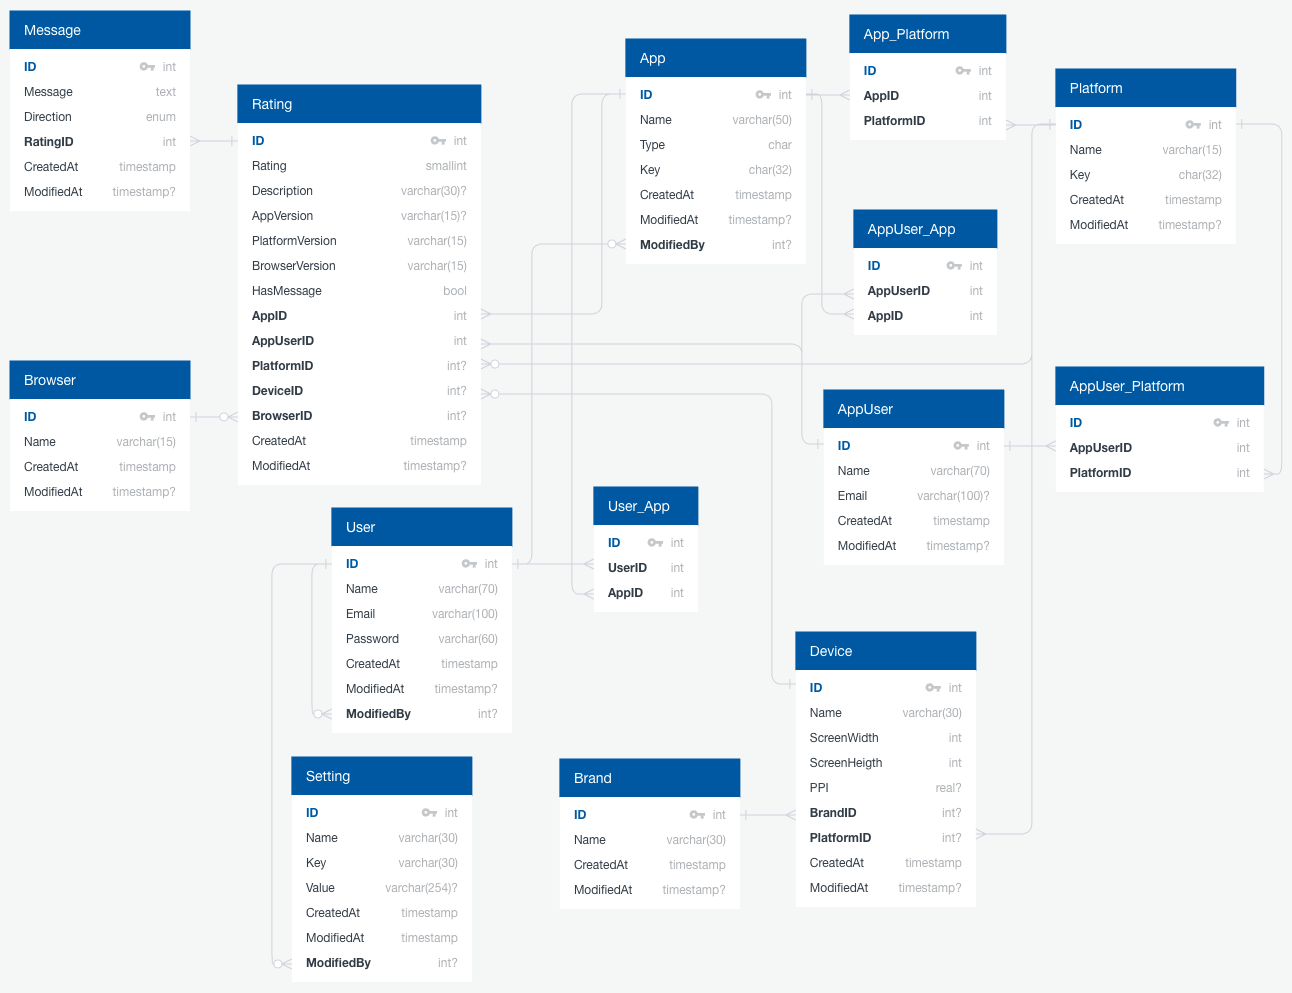
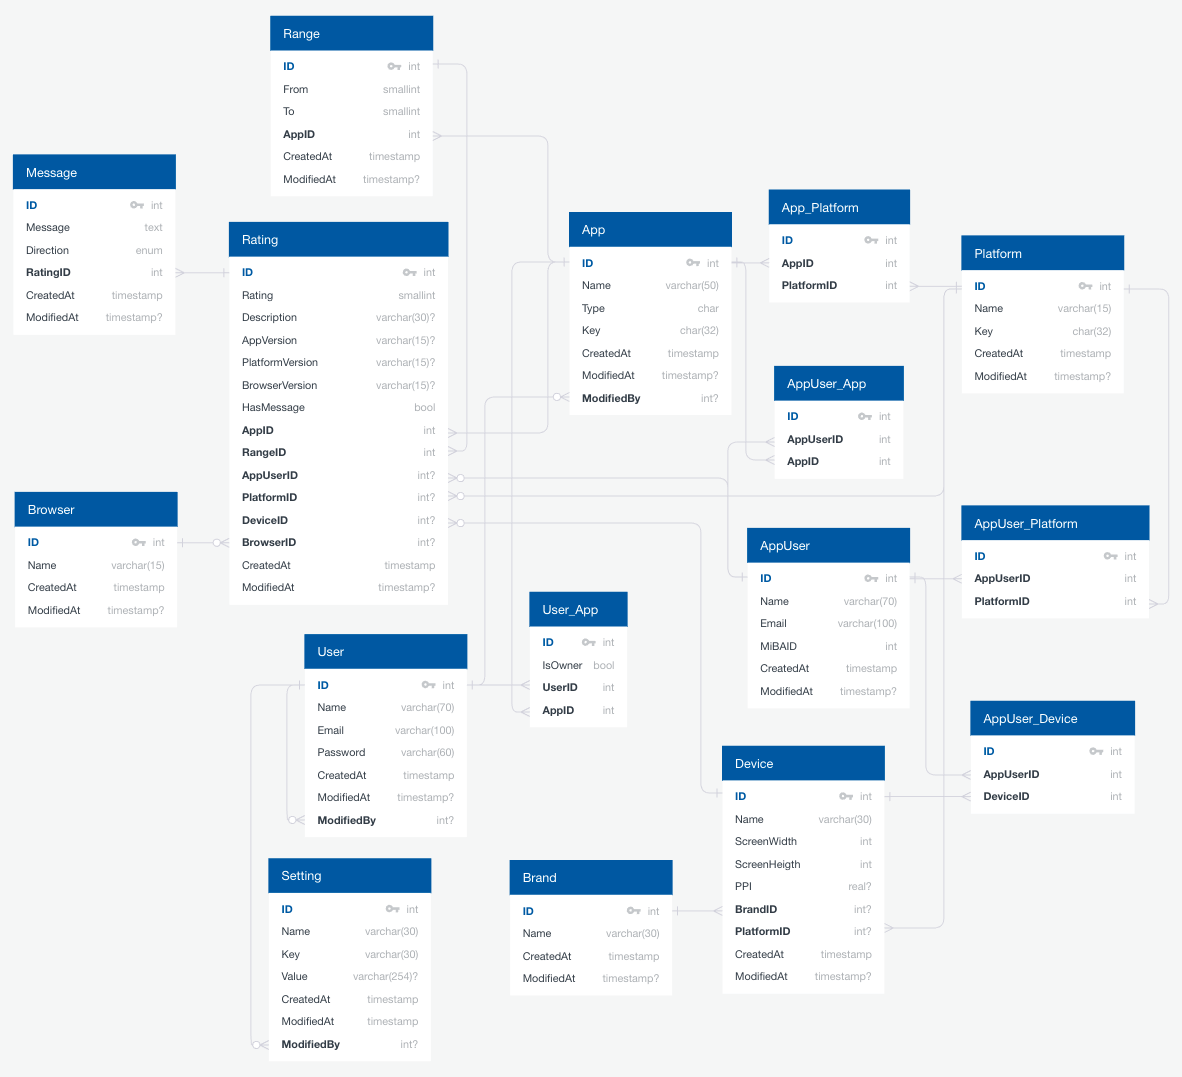
Updated docs

diff --git a/docs/estructura/datos.md b/docs/estructura/datos.md
@@ -31,6 +31,7 @@ El usuario del backend.
 
 - **Many-to-many** con App, a través de la tabla `AppUser_App`
 - **Many-to-many** con Platform, a través de la tabla `AppUser_Platform`
+- **Many-to-many** con Device, a través de la tabla `AppUser_Device`
 
 El usuario de las apps que envía calificaciones y comentarios.
 
@@ -38,7 +39,8 @@ El usuario de las apps que envía calificaciones y comentarios.
 |----------------|----------------------|:-----:|:-----:|:-----:|:-----:|
 |id              |int (PK)              |       |       |       |       |
 |name            |varchar(70)           |       |       |       |       |
-|email           |varchar(100)          |       |X      |       |X      |
+|email           |varchar(100)          |       |       |       |X      |
+|miba_id         |int                   |       |       |X      |X      |
 |created_at      |timestamp             |       |       |       |       |
 |modified_at     |timestamp             |       |X      |       |       |
 
@@ -80,15 +82,37 @@ La plataforma donde corren las apps y de donde provienen las calificaciones y co
 |created_at      |timestamp             |       |       |       |       |
 |modified_at     |timestamp             |       |X      |       |       |
 
-### User_App
+### Device
 
-Tabla intermedia para la relación many-to-many entre User y App.
+En el caso de las aplicaciones móviles, el dispositivo desde donde se enviaron las calificaciones y comentarios.
+
+#### Relaciones
+
+- **One-to-many** con Brand, a través de `brand_id`
+- **Many-to-many** con AppUser, a través de la tabla `AppUser_Device`
 
 |Campos          |Tipo                  | FK?   | Null? |Unique?|Index? |
 |----------------|----------------------|:-----:|:-----:|:-----:|:-----:|
 |id              |int (PK)              |       |       |       |       |
-|user_id         |int                   |X      |       |       |X      |
-|app_id          |int                   |X      |       |       |X      |
+|name            |varchar(30)           |       |       |X      |X      |
+|screen_width    |int                   |       |       |       |       |
+|screen_heigth   |int                   |       |       |       |       |
+|ppi             |real                  |       |X      |       |       |
+|brand_id        |int                   |X      |X      |       |X      |
+|platform_id     |int                   |X      |X      |       |X      |
+|created_at      |timestamp             |       |       |       |       |
+|modified_at     |timestamp             |       |X      |       |       |
+
+### User_App
+
+Tabla intermedia para la relación many-to-many entre User y App.
+
+|Campos          |Tipo                  |Default| FK?   | Null? |Unique?|Index? |
+|----------------|----------------------|-------|:-----:|:-----:|:-----:|:-----:|
+|id              |int (PK)              |       |       |       |       |       |
+|is_owner        |bool                  |false  |       |       |       |       |
+|user_id         |int                   |       |X      |       |       |X      |
+|app_id          |int                   |       |X      |       |       |X      |
 
 ### App_Platform
 
@@ -120,25 +144,15 @@ Tabla intermedia para la relación many-to-many entre AppUser y Platform.
 |appuser_id      |int                   |X      |       |       |X      |
 |platform_id     |int                   |X      |       |       |X      |
 
-### Device
+### AppUser_Device
 
-En el caso de las aplicaciones móviles, el dispositivo desde donde se enviaron las calificaciones y comentarios.
-
-#### Relaciones
-
-- **One-to-many** con Brand, a través de `brand_id`
+Tabla intermedia para la relación many-to-many entre AppUser y Device.
 
 |Campos          |Tipo                  | FK?   | Null? |Unique?|Index? |
 |----------------|----------------------|:-----:|:-----:|:-----:|:-----:|
 |id              |int (PK)              |       |       |       |       |
-|name            |varchar(30)           |       |       |X      |X      |
-|screen_width    |int                   |       |       |       |       |
-|screen_heigth   |int                   |       |       |       |       |
-|ppi             |real                  |       |X      |       |       |
-|brand_id        |int                   |X      |X      |       |X      |
-|platform_id     |int                   |X      |X      |       |X      |
-|created_at      |timestamp             |       |       |       |       |
-|modified_at     |timestamp             |       |X      |       |       |
+|appuser_id      |int                   |X      |       |       |X      |
+|device_id       |int                   |X      |       |       |X      |
 
 ### Browser
 
@@ -169,6 +183,7 @@ Las calificaciones de las apps.
 #### Relaciones
 
 - **One-to-many** con App, a través de `app_id`
+- **One-to-many** con Range, a través de `range_id`
 - **One-to-many** con AppUser, a través de `appuser_id`
 - **One-to-many** con Platform, a través de `platform_id`
 - **One-to-many** con Device, a través de `device_id`
@@ -180,11 +195,12 @@ Las calificaciones de las apps.
 |rating          |smallint              |       |       |       |       |       |
 |description     |varchar(30)           |       |       |X      |       |       |
 |app_version     |varchar(15)           |       |       |X      |       |       |
-|platform_version|varchar(15)           |       |       |       |       |       |
+|platform_version|varchar(15)           |       |       |X      |       |       |
 |browser_version |varchar(15)           |       |       |X      |       |       |
 |has_message     |bool                  |false  |       |       |       |X      |
 |app_id          |int                   |       |X      |       |       |X      |
-|appuser_id      |int                   |       |X      |       |       |X      |
+|range_id        |int                   |       |X      |       |       |X      |
+|appuser_id      |int                   |       |X      |X      |       |X      |
 |platform_id     |int                   |       |X      |X      |       |X      |
 |device_id       |int                   |       |X      |X      |       |X      |
 |browser_id      |int                   |       |X      |X      |       |X      |
@@ -203,10 +219,28 @@ Los mensajes de las conversaciones con los usuarios de las apps que enviaron cal
 |----------------|----------------------|:-----:|:-----:|:-----:|:-----:|
 |id              |int (PK)              |       |       |       |       |
 |message         |text                  |       |       |       |       |
-|direction       |char                  |       |       |       |Sí     |
+|direction       |char                  |       |       |       |X      |
 |rating_id       |int                   |X      |       |       |X      |
 |created_at      |timestamp             |       |       |       |       |
 |modified_at     |timestamp             |       |X      |       |       |
+
+### Range
+
+Los rangos de calificaciones de cada app.
+
+#### Relaciones
+
+- **One-to-many** con App, a través de `app_id`
+
+|Campos          |Tipo                  | FK?   | Null? |Unique?|Index? |
+|----------------|----------------------|:-----:|:-----:|:-----:|:-----:|
+|id              |int (PK)              |       |       |       |       |
+|from            |smallint              |       |       |       |       |
+|to              |smallint              |       |       |       |       |
+|app_id          |int                   |X      |       |       |X      |
+|created_at      |timestamp             |       |       |       |       |
+|modified_at     |timestamp             |       |X      |       |       |
+
 
 ### Setting
 

diff --git a/docs/estructura/apis.md b/docs/estructura/apis.md
@@ -48,12 +48,13 @@ Crear una nueva calificación (que puede incluir un comentario o no)
 {
     "rating": int,
     "comment": string, // optional
+    "app": string,
     "user": { // optional
         "name": string,
         "email": string
     },
     "platform": {
-        "name": string,
+        "key": string,
         "version": string
     },
     "device": { // optional

diff --git a/docs/analisis-funcional/README.md b/docs/analisis-funcional/README.md
@@ -26,11 +26,11 @@ TBD
 
 ## Actores
 
-1. Usuario
-2. Soporte
-3. Admin
-4. Desarrollador
-5. Público
+1. Usuario (Admin)
+2. Soporte (Admin)
+3. Admin (Admin)
+4. Desarrollador: Integra la aplicación con la API de calificaciones.
+5. Público: Califica aplicaciones.
 
 ## Casos de uso
 
